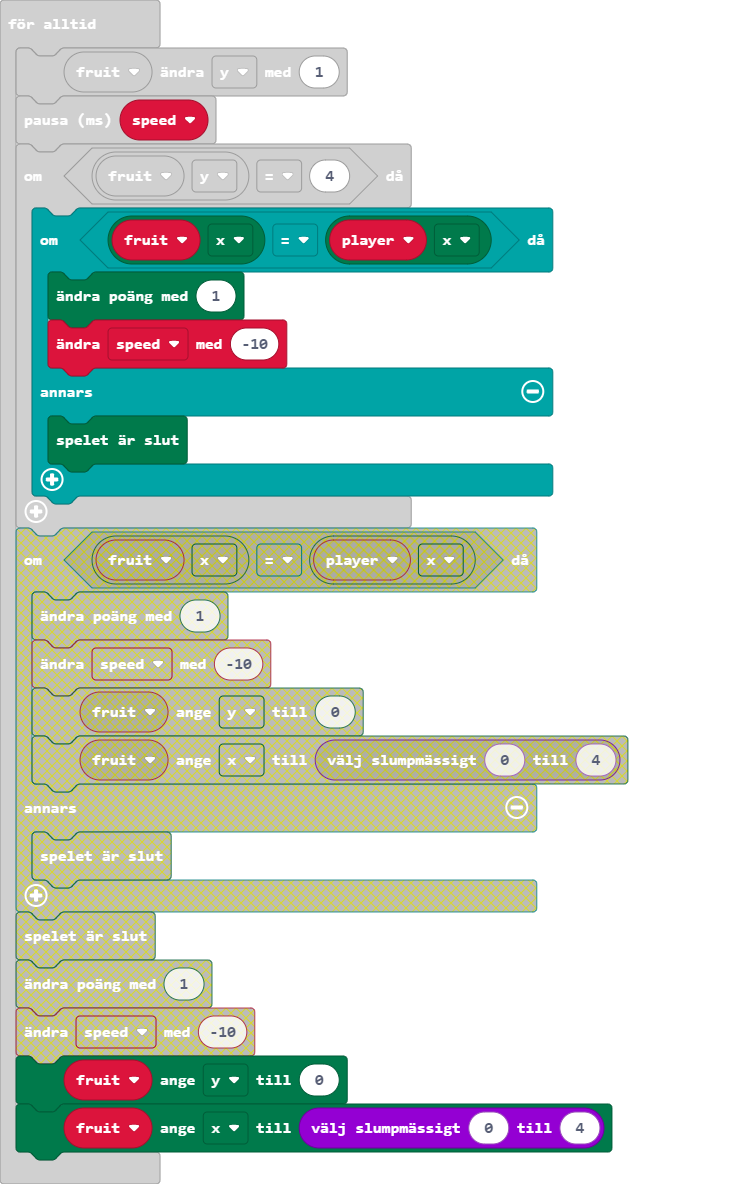
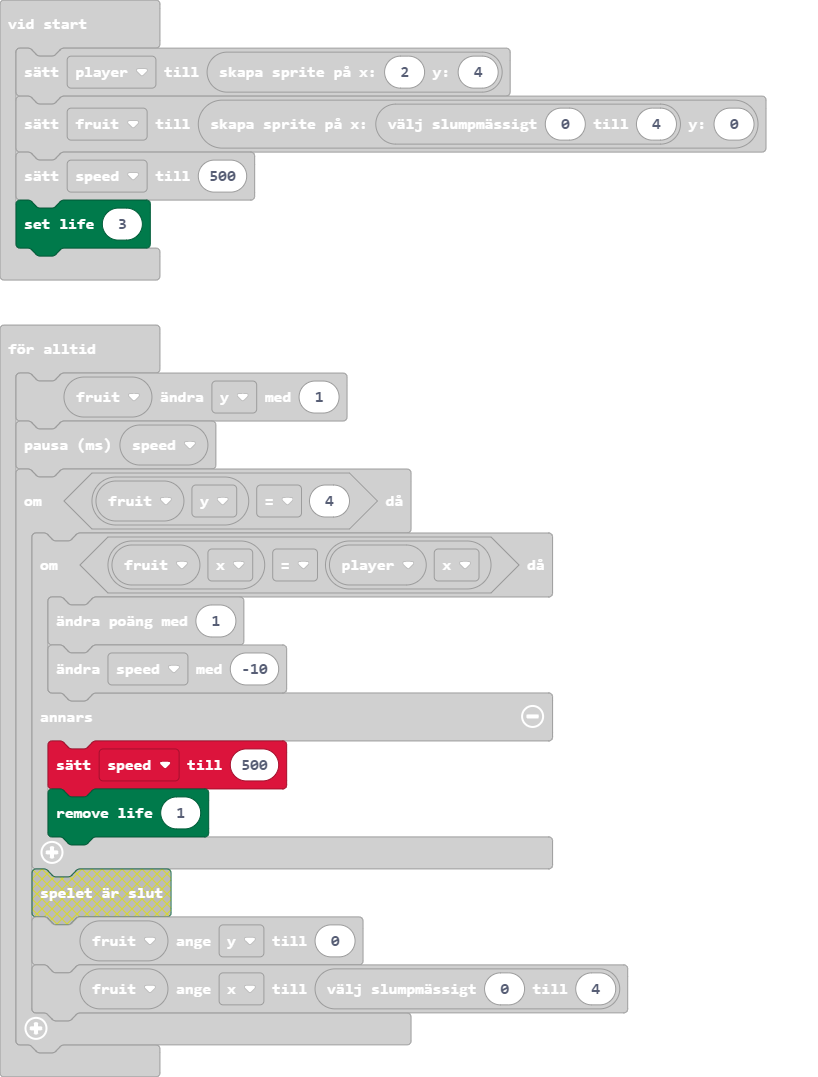
adds lives

diff --git a/main.ts b/main.ts
@@ -8,6 +8,7 @@ let player: game.LedSprite = null
 player = game.createSprite(2, 4)
 let fruit = game.createSprite(randint(0, 4), 0)
 let speed = 500
+game.setLife(3)
 basic.forever(function () {
     fruit.change(LedSpriteProperty.Y, 1)
     basic.pause(speed)
@@ -16,7 +17,8 @@ basic.forever(function () {
             game.addScore(1)
             speed += -10
         } else {
-            game.gameOver()
+            speed = 500
+            game.removeLife(1)
         }
         fruit.set(LedSpriteProperty.Y, 0)
         fruit.set(LedSpriteProperty.X, randint(0, 4))
